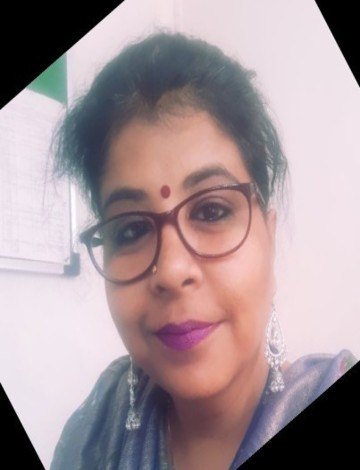
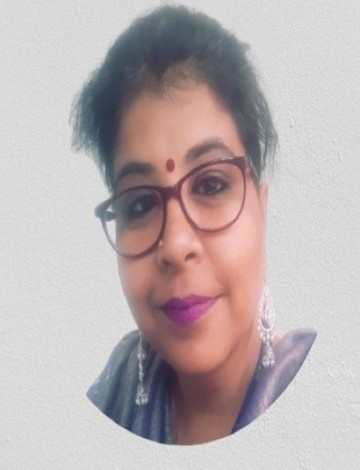
Updated Speakers Session and Integrated 'Takeaways' Accordion tab

diff --git a/index.html b/index.html
@@ -242,7 +242,7 @@
                 <div class="col-lg-4 col-sm-6">
                     <div class="single-team text-center mt-30 wow fadeIn" data-wow-duration="1s" data-wow-delay="0s">
                         <div class="team-image">
-                            <img src="assets/images/team-1.jpg" alt="Team">
+                            <img src="assets/images/Speakers/Swati_360x470.jpg" alt="Team" style="position: relative; top: -50px;">
                         </div>
                         <div class="team-content">
                             <div class="team-social">
@@ -335,7 +335,7 @@
                             <div class="modal-body">
                                 <div class="row">
                                     <div class="col-lg-5">
-                                        <img class="d-block w-100" src="https://via.placeholder.com/472x708">
+                                        <img class="d-block w-100" src="./assets/images/Speakers/Swati_472x708.jpg">
                                     </div>
                                     <div class="col-lg-7">
                                         <h2 class="h2-responsive product-name">
@@ -360,7 +360,7 @@
                                                 <div id="collapseOne1" class="collapse show" role="tabpanel"
                                                     aria-labelledby="headingOne1" data-parent="#accordionEx">
                                                     <div class="card-body">
-                                                        How to Crack Interviews?
+                                                        How to Crack Interviews Like a Pro!
                                                     </div>
                                                 </div>
                                             </div>
@@ -403,7 +403,31 @@
                                                 <div id="collapseThree3" class="collapse" role="tabpanel"
                                                     aria-labelledby="headingThree3" data-parent="#accordionEx">
                                                     <div class="card-body">
-                                                        ......
+                                                        Learning and Content Expert
+                                                    </div>
+                                                </div>
+                                            </div>
+                                            <!-- Accordion card -->
+                                            <!-- Accordion card -->
+                                            <div class="card">
+                                                <!-- Card header -->
+                                                <div class="card-header" role="tab" id="headingFour4">
+                                                    <a class="collapsed" data-toggle="collapse"
+                                                        data-parent="#accordionEx" href="#collapseFour4"
+                                                        aria-expanded="false" aria-controls="collapseFour4">
+                                                        <h5 class="mb-0">
+                                                            Takeaways <i
+                                                                class="fas fa-angle-down rotate-icon"></i>
+                                                        </h5>
+                                                    </a>
+                                                </div>
+                                                <!-- Card body -->
+                                                <div id="collapseFour4" class="collapse" role="tabpanel"
+                                                    aria-labelledby="headingFour4" data-parent="#accordionEx">
+                                                    <div class="card-body">
+                                                        Interview Tips <br>
+                                                        Question Answer session <br>
+                                                        Participation certificate
                                                     </div>
                                                 </div>
                                             </div>
@@ -457,7 +481,7 @@
                                             <div id="collapseOne1" class="collapse show" role="tabpanel"
                                                 aria-labelledby="headingOne1" data-parent="#accordionEx">
                                                 <div class="card-body">
-                                                    Getting Jobs in EnTC Core Companies.
+                                                    How to get Jobs in Core Companies?
                                                 </div>
                                             </div>
                                         </div>
@@ -478,7 +502,7 @@
                                             <div id="collapseTwo2" class="collapse" role="tabpanel"
                                                 aria-labelledby="headingTwo2" data-parent="#accordionEx">
                                                 <div class="card-body">
-                                                    4:00pm to 5:00pm
+                                                    5.30pm - 6.30pm
                                                 </div>
                                             </div>
                                         </div>
@@ -504,6 +528,31 @@
                                                     working as senior software engineer for development of embedded
                                                     software for automotive electronic control units.
                                                 </div>
+                                            </div>
+                                        </div>
+                                        <!-- Accordion card -->
+                                        <!-- Accordion card -->
+                                        <div class="card">
+                                            <!-- Card header -->
+                                            <div class="card-header" role="tab" id="headingFour4">
+                                                <a class="collapsed" data-toggle="collapse"
+                                                    data-parent="#accordionEx" href="#collapseFour4"
+                                                    aria-expanded="false" aria-controls="collapseFour4">
+                                                    <h5 class="mb-0">
+                                                        Takeaways <i
+                                                            class="fas fa-angle-down rotate-icon"></i>
+                                                    </h5>
+                                                </a>
+                                            </div>
+                                            <!-- Card body -->
+                                            <div id="collapseFour4" class="collapse" role="tabpanel"
+                                                aria-labelledby="headingFour4" data-parent="#accordionEx">
+                                                <div class="card-body">
+                                                    Tips to find jobs in core companies <br>
+                                                    How to build skills to attract opportunities <br>
+                                                    Work information in core companies <br>
+                                                    Question and answer session <br>
+                                                    Participation certificate
                                             </div>
                                         </div>
                                         <!-- Accordion card -->
@@ -604,6 +653,30 @@
                                             </div>
                                         </div>
                                         <!-- Accordion card -->
+                                        <!-- Accordion card -->
+                                        <div class="card">
+                                            <!-- Card header -->
+                                            <div class="card-header" role="tab" id="headingFour4">
+                                                <a class="collapsed" data-toggle="collapse"
+                                                    data-parent="#accordionEx" href="#collapseFour4"
+                                                    aria-expanded="false" aria-controls="collapseFour4">
+                                                    <h5 class="mb-0">
+                                                        Takeaways <i
+                                                            class="fas fa-angle-down rotate-icon"></i>
+                                                    </h5>
+                                                </a>
+                                            </div>
+                                            <!-- Card body -->
+                                            <div id="collapseFour4" class="collapse" role="tabpanel"
+                                                aria-labelledby="headingFour4" data-parent="#accordionEx">
+                                                <div class="card-body">
+                                                    ... <br>
+                                                    Question Answer session <br>
+                                                    Participation certificate
+                                                </div>
+                                            </div>
+                                        </div>
+                                        <!-- Accordion card -->
                                     </div>
                                     <!-- Accordion wrapper -->
                                     <br>
@@ -696,7 +769,32 @@
                                             <div id="collapseThree3" class="collapse" role="tabpanel"
                                                 aria-labelledby="headingThree3" data-parent="#accordionEx">
                                                 <div class="card-body">
-                                                    Founder - Onestartup | Young Entrepreneur. Helped 500+ entrepreneurs with their startups.
+                                                    STARTUP MENTOR/ADVISER/CONSULTANT, TRAINER, STRATEGIC INVESTOR , KEYNOTE SPEAKER
+                                                </div>
+                                            </div>
+                                        </div>
+                                        <!-- Accordion card -->
+                                        <!-- Accordion card -->
+                                        <div class="card">
+                                            <!-- Card header -->
+                                            <div class="card-header" role="tab" id="headingFour4">
+                                                <a class="collapsed" data-toggle="collapse"
+                                                    data-parent="#accordionEx" href="#collapseFour4"
+                                                    aria-expanded="false" aria-controls="collapseFour4">
+                                                    <h5 class="mb-0">
+                                                        Takeaways <i
+                                                            class="fas fa-angle-down rotate-icon"></i>
+                                                    </h5>
+                                                </a>
+                                            </div>
+                                            <!-- Card body -->
+                                            <div id="collapseFour4" class="collapse" role="tabpanel"
+                                                aria-labelledby="headingFour4" data-parent="#accordionEx">
+                                                <div class="card-body">
+                                                    How to Startup <br>
+                                                    Opportunities in Startup <br>
+                                                    Question Answer session <br>
+                                                    Participation certificate
                                                 </div>
                                             </div>
                                         </div>
